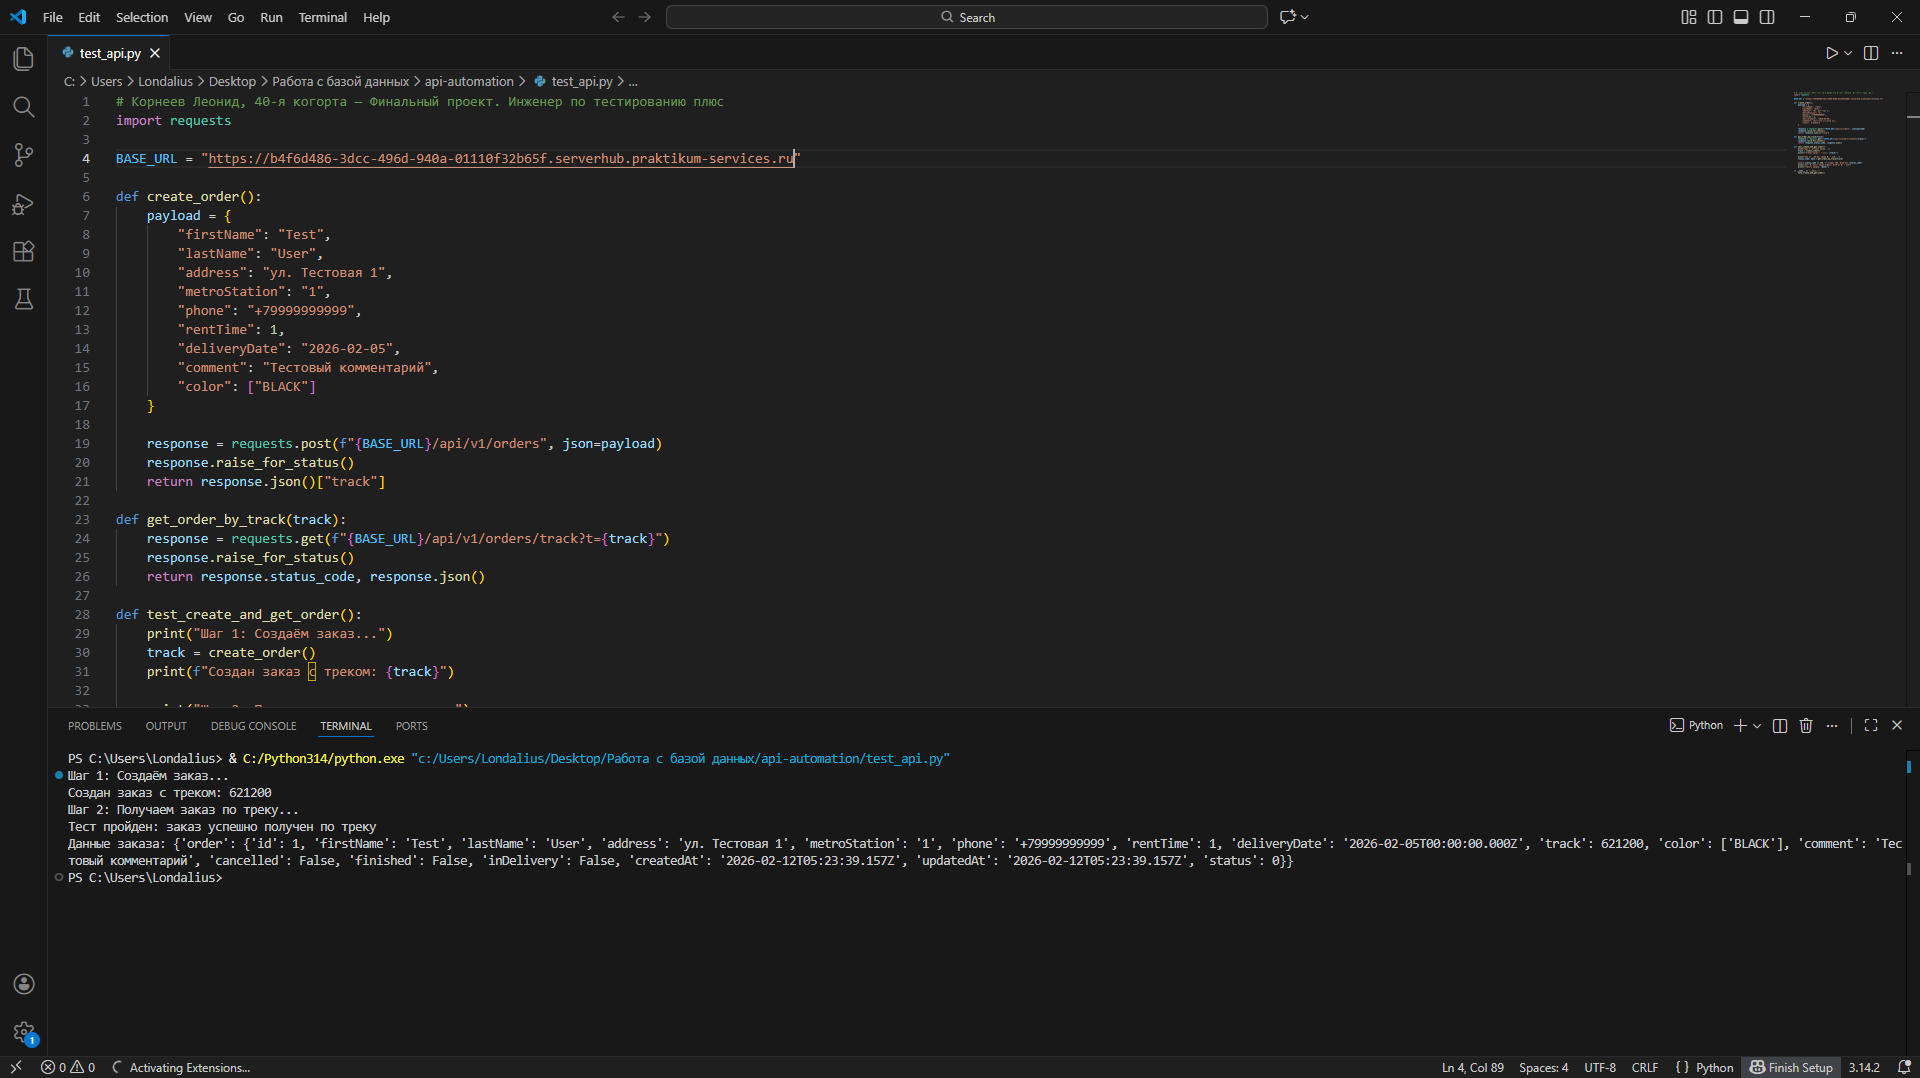
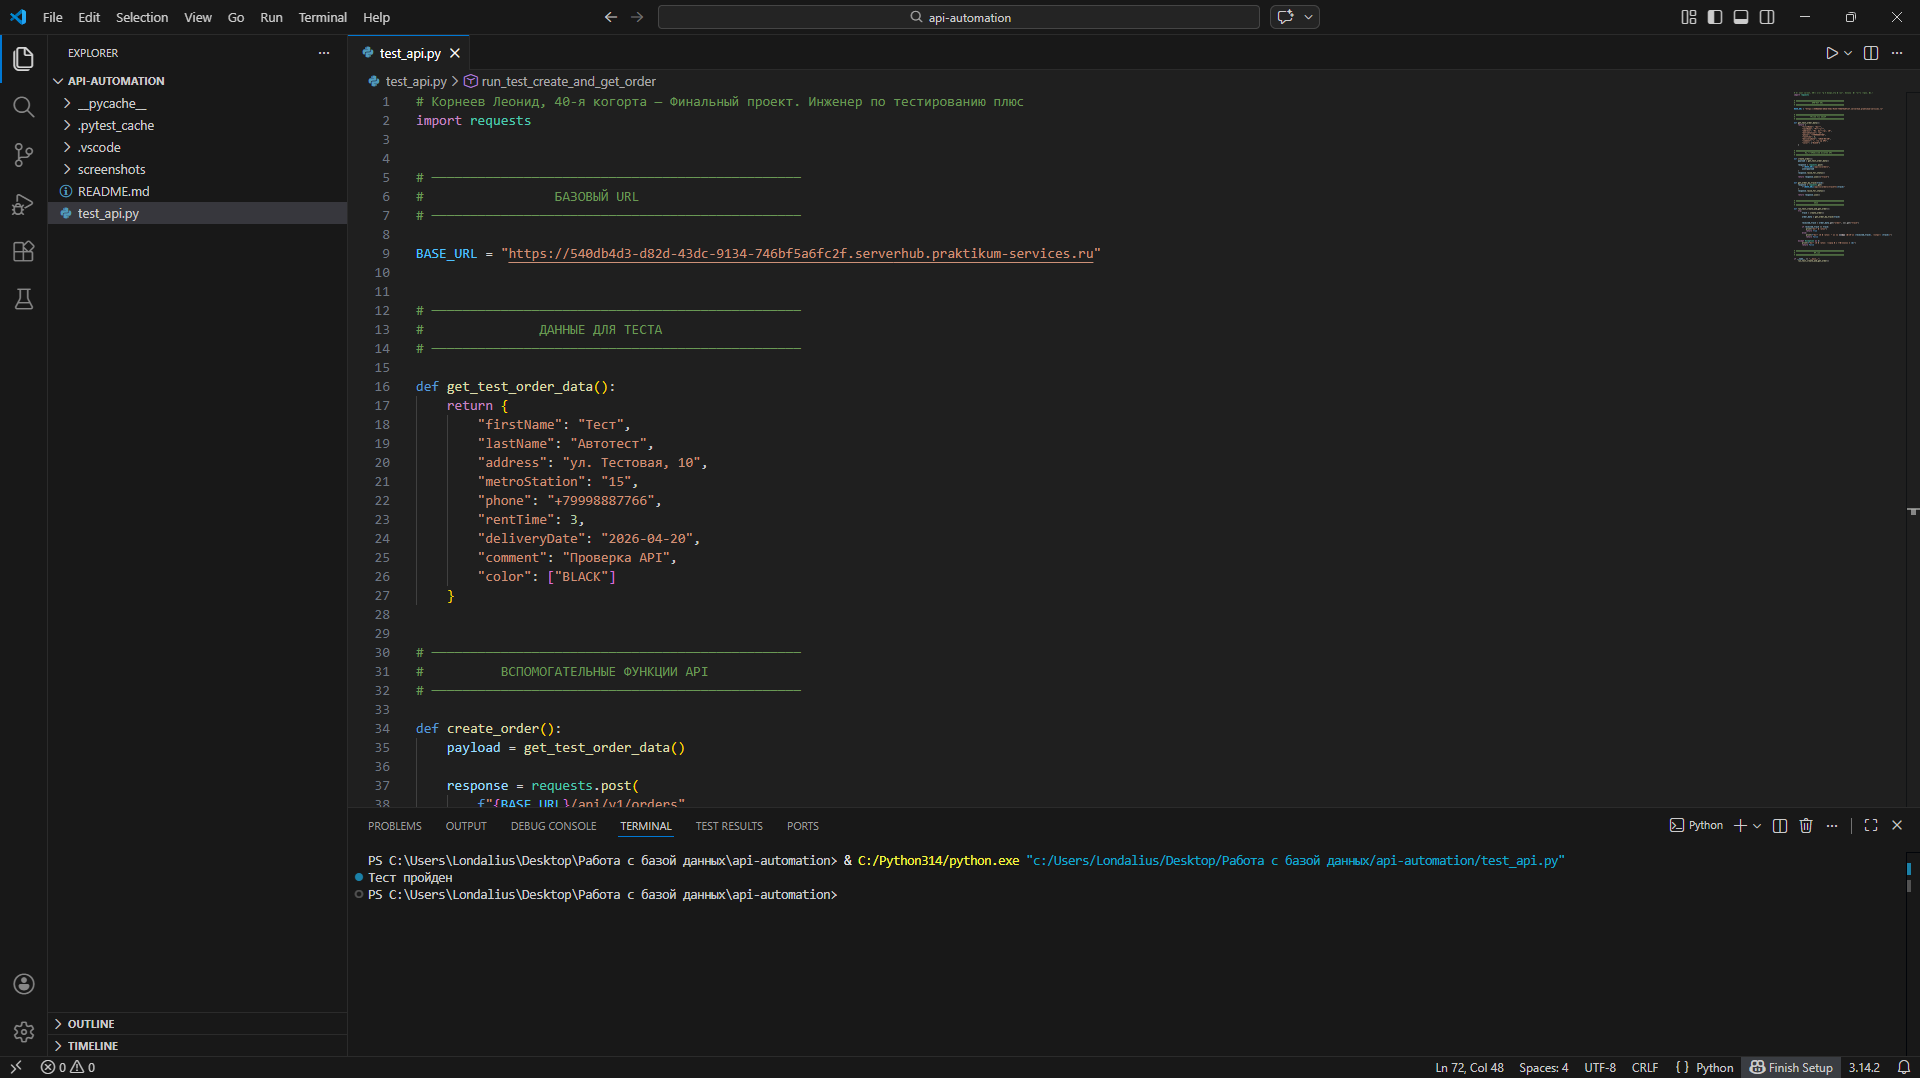
Изменение структуры автотеста

diff --git a/api-automation/test_api.py b/api-automation/test_api.py
@@ -1,41 +1,85 @@
 # Корнеев Леонид, 40-я когорта — Финальный проект. Инженер по тестированию плюс
 import requests
 
-BASE_URL = "https://b4f6d486-3dcc-496d-940a-01110f32b65f.serverhub.praktikum-services.ru"
 
-def create_order():
-    payload = {
-        "firstName": "Test",
-        "lastName": "User",
-        "address": "ул. Тестовая 1",
-        "metroStation": "1",
-        "phone": "+79999999999",
-        "rentTime": 1,
-        "deliveryDate": "2026-02-05",
-        "comment": "Тестовый комментарий",
+# ────────────────────────────────────────────────
+#                 БАЗОВЫЙ URL
+# ────────────────────────────────────────────────
+
+BASE_URL = "https://540db4d3-d82d-43dc-9134-746bf5a6fc2f.serverhub.praktikum-services.ru"
+
+
+# ────────────────────────────────────────────────
+#               ДАННЫЕ ДЛЯ ТЕСТА
+# ────────────────────────────────────────────────
+
+def get_test_order_data():
+    return {
+        "firstName": "Тест",
+        "lastName": "Автотест",
+        "address": "ул. Тестовая, 10",
+        "metroStation": "15",
+        "phone": "+79998887766",
+        "rentTime": 3,
+        "deliveryDate": "2026-04-20",
+        "comment": "Проверка API",
         "color": ["BLACK"]
     }
+
+
+# ────────────────────────────────────────────────
+#          ВСПОМОГАТЕЛЬНЫЕ ФУНКЦИИ API
+# ────────────────────────────────────────────────
+
+def create_order():
+    payload = get_test_order_data()
     
-    response = requests.post(f"{BASE_URL}/api/v1/orders", json=payload)
+    response = requests.post(
+        f"{BASE_URL}/api/v1/orders",
+        json=payload
+    )
     response.raise_for_status()
+    
     return response.json()["track"]
 
-def get_order_by_track(track):
-    response = requests.get(f"{BASE_URL}/api/v1/orders/track?t={track}")
-    response.raise_for_status()
-    return response.status_code, response.json()
 
-def test_create_and_get_order():
-    print("Шаг 1: Создаём заказ...")
-    track = create_order()
-    print(f"Создан заказ с треком: {track}")
+def get_order_by_track(track):
+    response = requests.get(
+        f"{BASE_URL}/api/v1/orders/track?t={track}"
+    )
+    response.raise_for_status()
     
-    print("Шаг 2: Получаем заказ по треку...")
-    status_code, data = get_order_by_track(track)
-    
-    assert status_code == 200, f"Ожидали 200, получили {status_code}"
-    print("Тест пройден: заказ успешно получен по треку")
-    print(f"Данные заказа: {data}")
+    return response.json()
+
+
+# ────────────────────────────────────────────────
+#                   ТЕСТ
+# ────────────────────────────────────────────────
+
+def run_test_create_and_get_order():
+    try:
+        track = create_order()
+        
+        order_data = get_order_by_track(track)
+        
+        
+        received_track = order_data.get("order", {}).get("track")
+        
+        if received_track == track:
+            print("Тест пройден")
+            return True
+        else:
+            print(f"Тест НЕ пройден: трек не совпал (получен {received_track}, ожидался {track})")
+            return False
+            
+    except Exception as e:
+        print(f"Тест НЕ пройден: ошибка при выполнении → {e}")
+        return False
+
+
+# ────────────────────────────────────────────────
+#                   ЗАПУСК
+# ────────────────────────────────────────────────
 
 if __name__ == "__main__":
-    test_create_and_get_order()
+    run_test_create_and_get_order()
